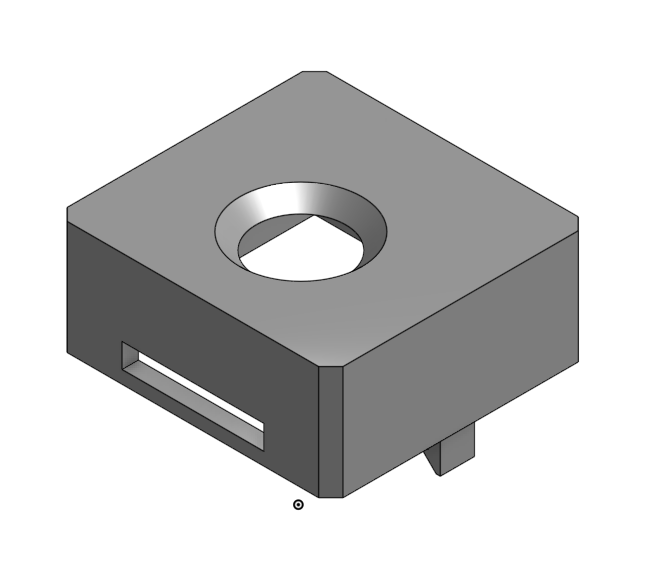
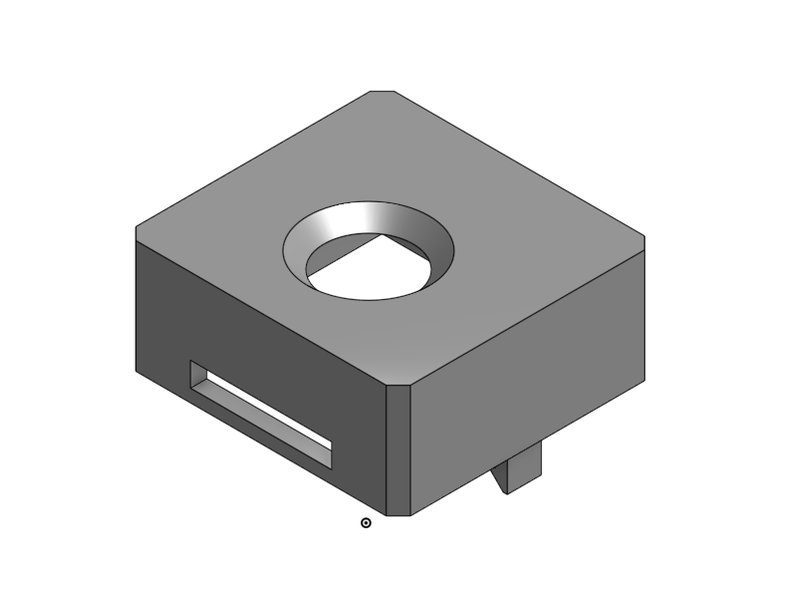
docs: add hardware documentation and CAD assets for precision landing setup

Changed region(s): [[0.0904, 0.121, 0.8735, 0.9075], [0.3313, 0.3025, 0.6024, 0.484], [0.3916, 0.484, 0.4518, 0.5142]]

diff --git a/docs/hardware/camera-holder/README.md b/docs/hardware/camera-holder/README.md
@@ -1,59 +1,83 @@
 # IMX500 Top-Down Camera Holder
 
-A 3D-printed holder that fixes the IMX500 camera so it looks straight down at the ground. It was designed in Onshape (free for non-commercial use) and printed in PLA.
+A custom 3D-printed mounting system designed in Onshape to secure the Sony IMX500 AI camera module firmly on the drone with a fixed nadir (straight-down) orientation.
 
-TODO: add a photo of the printed holder as `images/holder_photo.jpg`, then add `![Printed camera holder](images/holder_photo.jpg)` here.
+![Printed camera holder assembly](images/3d_printed_enclouser_fixed_on_base_holder_3d_printedassembly_sequence_5.jpeg)
+
+*Completed 3D-printed IMX500 camera enclosure and base mount.*
+
+## CAD Designs
+
+Designed in Onshape and exported for 3D printing. The assembly consists of two interlocking parts: the **Base Camera Holder** and the **Protective Enclosure**.
+
+### Fully Assembled Mount
+| Isometric View | Top View |
+| :---: | :---: |
+| ![Fully assembled isometric view](cad/cad_design_fully_assembled_isometric_view.png) | ![Fully assembled top view](cad/cad_design_fully_assembled_top_view.png) |
+
+### Component Parts
+| Base Holder (Isometric) | Base Holder (Top View) |
+| :---: | :---: |
+| ![Base camera holder isometric view](cad/cad_design_base_cam_holder_isometric_view.png) | ![Base camera holder top view](cad/cad_design_base_cam_holder_top_view.png) |
+
+| Enclosure (Isometric) | Enclosure (Top View) | Enclosure (Bottom View) |
+| :---: | :---: | :---: |
+| ![Enclosure isometric view](cad/cad_design_enclouser_isometric_view.png) | ![Enclosure top view](cad/cad_design_enclouser_top_view.png) | ![Enclosure bottom view](cad/cad_design_enclouser_bottom_view.png) |
 
 ## Files
 
 | File | Description |
 | --- | --- |
-| `cad/imx_camera_holder_top_down.stl` | Print-ready model. TODO: add file |
-| `cad/imx_camera_holder_top_down.step` | Editable CAD export. TODO: add file |
-| Onshape document | TODO: add public link |
+| `cad/imx_camera_holder_top_down.stl` | Print-ready STL mesh *(Add file to `cad/`)* |
+| `cad/imx_camera_holder_top_down.step` | Editable STEP solid model *(Add file to `cad/`)* |
+| Onshape Document | Modelled on Onshape *(Add public link)* |
 
-Put the files in the `cad/` folder next to this README, and photos in `images/`.
+## Print Settings
 
-## Print settings
+| Setting | Recommended Value | Notes |
+| --- | --- | --- |
+| Material | PLA or PETG | Use PETG if operating in direct hot sunlight |
+| Layer Height | 0.20 mm | Standard detail |
+| Infill | 20% - 30% | Gyroid or Grid |
+| Perimeters / Walls | 3 | Ensures screw holes hold threads without cracking |
+| Supports | None or Touching Buildplate | Designed to print flat without internal supports |
 
-| Setting | Value |
-| --- | --- |
-| Material | PLA |
-| Printer | TODO |
-| Layer height | TODO |
-| Infill | TODO |
-| Supports | TODO |
-| Print orientation | TODO |
+## Hardware Needed
 
-PLA softens in hot sun and inside a closed hot enclosure. If you fly in hot conditions, consider PETG.
+| Item | Specification | Quantity |
+| --- | --- | :---: |
+| Camera mounting screws | M2 x 6 mm Phillips machine screws | 4 |
+| Camera mounting nuts | M2 hex nuts | 4 |
+| Frame attachment | M3 bolts & nylon locknuts (or zip-ties) | 4 |
 
-## Hardware needed
+## Step-by-Step Assembly Guide
 
-| Item | Quantity |
-| --- | --- |
-| Screws and nuts for the camera | TODO (size and count) |
-| Screws and nuts for mounting the holder to the frame | TODO (size and count) |
-| Frame or arm it mounts to | TODO |
+| Sequence | Photo | Details |
+| :---: | :---: | --- |
+| **Step 1 & 2** | ![3D printed enclosure](images/fury_imx500_cam_enclouser_3d_printed_for_precision_landing_assembly_sequence_2.jpeg) | **Inspect 3D Printed Parts**: Remove any brim, clean out screw holes, and verify the IMX500 camera module fits snugly into the enclosure recess. |
+| **Step 3** | ![Camera fixed on holder](images/cam_fixed_on_holder_m2x6_phillis_screw_assembly_sequence_3.jpeg) | **Install Camera in Enclosure**: Place the Sony IMX500 module into the mount and fasten it using four M2x6 mm Phillips machine screws and nuts. Do not over-tighten. |
+| **Step 4** | ![Holder attached to drone base](images/3d_printed_holder_attached_on_fury_drone_base_assembly_sequence_4.jpeg) | **Mount Base to Drone Undercarriage**: Fasten the base holder securely to the lower bottom plate of the drone frame with screws aligned along the vehicle centerline. |
+| **Step 5** | ![Enclosure fixed on base holder](images/3d_printed_enclouser_fixed_on_base_holder_3d_printedassembly_sequence_5.jpeg) | **Lock Enclosure to Base**: Fasten the camera enclosure onto the base holder, ensuring the lens is perpendicular to the drone's horizontal plane (facing true nadir). |
+| **Step 6** | ![Ribbon cable routing to Pi 5](images/fury_drone_ribbon_routing_to_pi5.jpeg) | **Route CSI Ribbon Cable**: Guide the 15-to-22 pin CSI ribbon cable smoothly up to the Raspberry Pi 5 CAM0 port without sharp kinks or proximity to rotating props. |
 
-## Mounting
+## Camera Orientation (Crucial for Control Loop)
 
-1. Attach the camera to the holder. Make sure the CSI cable has room and is not bent sharply.
-2. Mount the holder to the frame so the lens points **straight down**. The camera is fixed (no gimbal).
-3. Check the lens has a clear view and that no frame part, landing gear leg or propeller is in the picture.
-4. Secure the cable so it cannot touch the propellers.
+The precision landing server assumes the following coordinate frame alignment:
 
-### Orientation (important)
+- **Top of the image = Drone Nose (Forward, +X)**
+- **Left of the image = Drone Left (+Y)**
+- **Center of optical axis = True Nadir (-Z)**
 
-The landing controller assumes:
+This ensures error corrections directly map to velocity setpoints:
+- Tag appearing in top half of image $\rightarrow$ Drone moves **Forward**.
+- Tag appearing in left half of image $\rightarrow$ Drone moves **Left**.
 
-- **Top of the image = drone nose (forward)**
-- **Left of the image = drone left**
+If your physical mounting has the camera rotated $180^\circ$ or $90^\circ$, either physically flip the mount or update `sign_x` and `sign_y` in [../../../config/params.yaml](../../../config/params.yaml). Always verify on the bench before flight.
 
-This follows from the control code: a tag appearing in the upper part of the image makes the drone move forward, and a tag on the left makes it move left. If your camera is rotated, either rotate the holder or change `sign_x` and `sign_y` in [../../../config/params.yaml](../../../config/params.yaml). Check this on the bench with propellers off: move a tag in front of the camera and confirm the commanded velocity points toward it.
+## Pre-Flight Checklist
 
-## Checks before flight
-
-- [ ] Holder is tight, no wobble when you shake the frame
-- [ ] Image is sharp at the landing altitudes you will use
-- [ ] Orientation checked as above
-- [ ] Camera cable is secured away from propellers
+- [ ] Camera holder is rigid with zero play/wobble on the frame
+- [ ] Lens view is completely unobstructed by landing gear or prop disks
+- [ ] Lens is cleaned and focused for nominal descent range
+- [ ] CSI ribbon cable is strain-relieved and clear of propellers
+- [ ] Orientation confirmed in software (`ros2 run rqt_image_view rqt_image_view`)

diff --git a/docs/hardware/README.md b/docs/hardware/README.md
@@ -61,10 +61,10 @@ Measure the BEC output with a multimeter before connecting the Pi, as in the pho
 
 Power the Pi off before touching the camera cable. Lift the connector latch, insert the ribbon cable fully with the contacts facing the correct way, and close the latch. The camera is connected to the **CAM0** port.
 
-| Step | Photos |
-| --- | --- |
-| Insert the ribbon cable | ![CSI ribbon cable insertion, photo 1](images/hardware_rpi5_csi_ribbon_cable_insertion_v1.jpg) ![CSI ribbon cable insertion, photo 2](images/hardware_rpi5_csi_ribbon_cable_insertion_v2.jpg) ![CSI ribbon cable insertion, photo 3](images/hardware_rpi5_csi_ribbon_cable_insertion_v3.jpg) |
-| Connected to CAM0 | ![Camera connected to CAM0, photo 1](images/hardware_rpi5_csi_port_cam0_connected_v1.jpg) ![Camera connected to CAM0, photo 2](images/hardware_rpi5_csi_port_cam0_connected_v2.jpg) ![Camera connected to CAM0, photo 3](images/hardware_rpi5_csi_port_cam0_connected_v3.jpg) ![Camera connected to CAM0, photo 4](images/hardware_rpi5_csi_port_cam0_connected_v4.jpg) |
+| Step 1: Insert Ribbon Cable | Step 2: Connect to CAM0 Port |
+| :---: | :---: |
+| ![CSI ribbon cable insertion](images/hardware_rpi5_csi_ribbon_cable_insertion_v2.jpg) | ![Camera connected to CAM0](images/hardware_rpi5_csi_port_cam0_connected_v2.jpg) |
+| *Lift latch and slide ribbon cable contacts in squarely* | *Firmly seat ribbon cable and lock CAM0 retention clip* |
 
 TODO: confirm the cable length and the connector orientation you used.
 
@@ -83,13 +83,12 @@ The Pi runs **Raspberry Pi OS with Docker**. The ROS 2 Humble stack runs in an U
 
 ## Bench setup
 
-The full bench setup (Raspberry Pi 5, IMX500, BEC and the Cube) before the parts go on the drone:
+The full bench setup (Raspberry Pi 5, IMX500, BEC, and Cube Orange+) before installing on the drone:
 
-| Bench setup 1 | Bench setup 2 | Bench setup 3 |
-| --- | --- | --- |
-| ![Bench setup with Pi 5, IMX500 and BEC, photo 1](images/hardware_bench_setup_rpi5_imx500_bec_complete_v1.jpg) | ![Bench setup with Pi 5, IMX500 and BEC, photo 2](images/hardware_bench_setup_rpi5_imx500_bec_complete_v2.jpg) | ![Bench setup with Pi 5, IMX500 and BEC, photo 3](images/hardware_bench_setup_rpi5_imx500_bec_complete_v3.jpg) |
-
-![Complete bench interconnect, including the Wi-Fi dongle](images/hardware_bench_interconnect_complete_with_wifi_v1.jpg)
+| Bench Hardware Setup | Complete Interconnect with Telemetry Wi-Fi |
+| :---: | :---: |
+| ![Bench setup with Pi 5, IMX500 and BEC](images/hardware_bench_setup_rpi5_imx500_bec_complete_v1.jpg) | ![Complete bench interconnect with Wi-Fi dongle](images/hardware_bench_interconnect_complete_with_wifi_v1.jpg) |
+| *Raspberry Pi 5 with IMX500 AI camera and 5V BEC regulator* | *Full bench interconnect wiring with Wi-Fi dongle for telemetry link* |
 
 ## Bench checklist
 

diff --git a/docs/simulation.md b/docs/simulation.md
@@ -2,6 +2,10 @@
 
 Test the whole mission in software before any hardware flight. The flight stack was validated both in simulation and on hardware.
 
+![SITL Gazebo and RViz Simulation Overview](images/simulation/sim_multiwindow_precision_landing.png)
+
+*Full software-in-the-loop (SITL) simulation environment with ArduPilot, Gazebo synthetic camera feed, RViz AprilTag detection, and QGroundControl.*
+
 ## What you need
 
 - Ubuntu 22.04 workstation (or the Docker environment) with ROS 2 Humble and MAVROS
@@ -25,7 +29,16 @@ ros2 launch mavros apm.launch fcu_url:=udp://:14550@127.0.0.1:14555
 
 ## 3. Start the camera and tag detection
 
-Start the simulated camera bridge and `apriltag_ros` so that `/detections` publishes: TODO: add the commands you use. Check with `ros2 topic hz /detections`.
+Start the simulated camera bridge and `apriltag_ros` so that `/detections` publishes:
+
+![Gazebo and RViz AprilTag Landing Interface](images/simulation/sim_gazebo_rviz_landing_interface.png)
+
+*Simulated downward-facing camera topic visualized in RViz with detected AprilTag coordinate axes.*
+
+Check topic publication frequency with:
+```bash
+ros2 topic hz /detections
+```
 
 ## 4. Start the flight stack
 

diff --git a/docs/tags.md b/docs/tags.md
@@ -14,7 +14,11 @@ A single tag is either big enough to see from altitude but leaves the camera's v
 | Middle | 48h12 | 1 | 4.5 cm | Medium and close range |
 | Inner | 48h12 | 2 | 1.6 cm | Final close range |
 
-TODO: add the tag image here (for example `images/tag_0_1_2.png`). The tags are placed concentrically: tag 1 inside tag 0, tag 2 inside tag 1.
+<p align="center">
+  <img src="images/tags/apriltag_nested_48h12_marker.png" width="400" alt="Nested AprilTag Target (Family 48h12, IDs 0, 1, 2)" />
+  <br>
+  <em>Concentric Nested AprilTag Target: Tag 2 inside Tag 1, Tag 1 inside Tag 0 (Family 48h12).</em>
+</p>
 
 Confirm the sizes you print by measuring the printed tag edge with a ruler. Detection range scales with printed size, see [detection-range.md](detection-range.md).
 

diff --git a/docs/software/nodes.md b/docs/software/nodes.md
@@ -2,6 +2,12 @@
 
 The flight stack is three ROS 2 nodes in the package `autonomous_flight_stack`, with two action definitions in `uav_interfaces`.
 
+<p align="center">
+  <img src="../images/software/ros_node_architecture_flowchart.png" width="700" alt="ROS 2 Node Architecture Flowchart" />
+  <br>
+  <em>System computation architecture showing inter-node communications, action servers, and MAVROS bridge topics.</em>
+</p>
+
 ```text
 mission_executive --(NavigateToWaypoint action)--> navigation_server --> /mavros/setpoint_raw/global
         |
